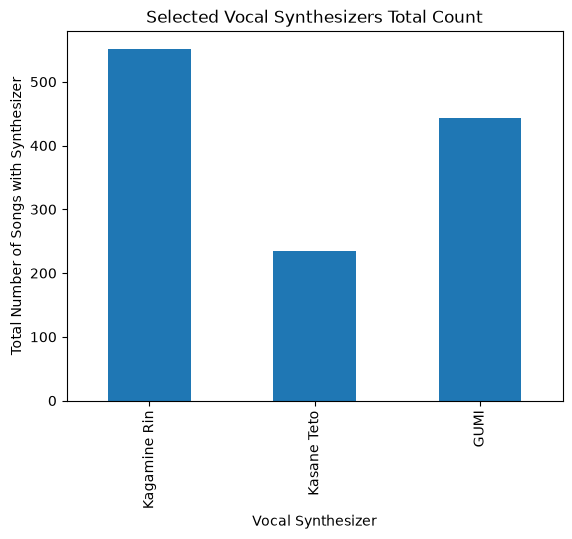
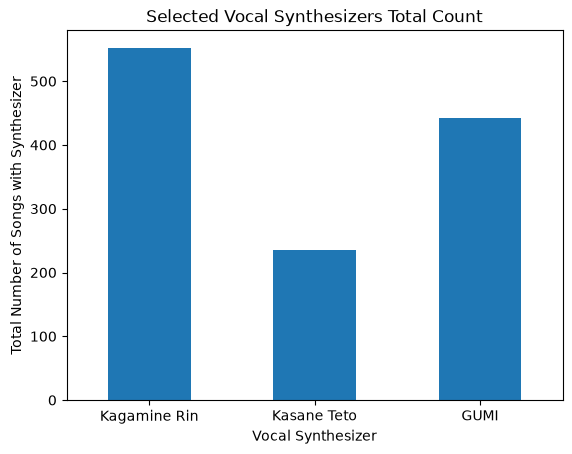
fixed x label

diff --git a/vocal_synth.py b/vocal_synth.py
@@ -64,7 +64,7 @@ def plot_total_counts(songs):
     data = pd.Series(total_counts(songs))
     fig, ax = plt.subplots(1)
 
-    data.plot(ax=ax, kind="bar")
+    data.plot(ax=ax, kind="bar", rot=0)
     plt.xlabel("Vocal Synthesizer")
     plt.ylabel("Total Number of Songs with Synthesizer")
     plt.title("Selected Vocal Synthesizers Total Count")
